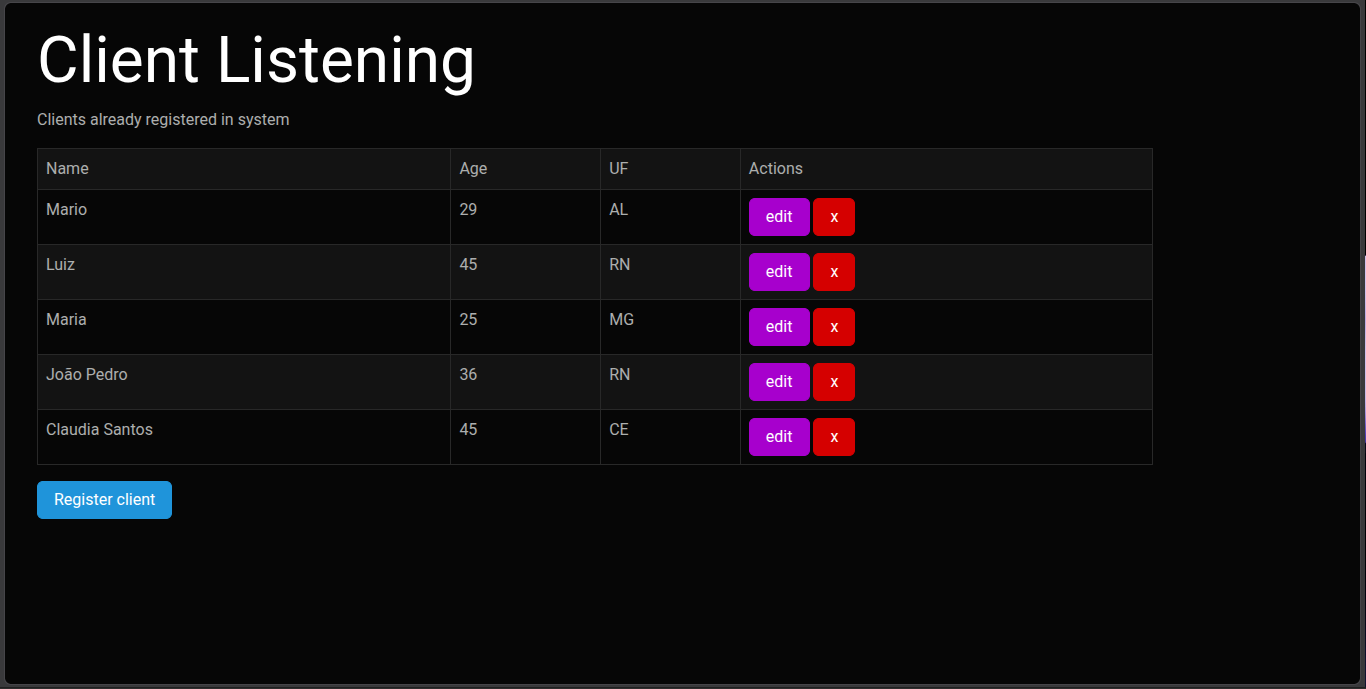
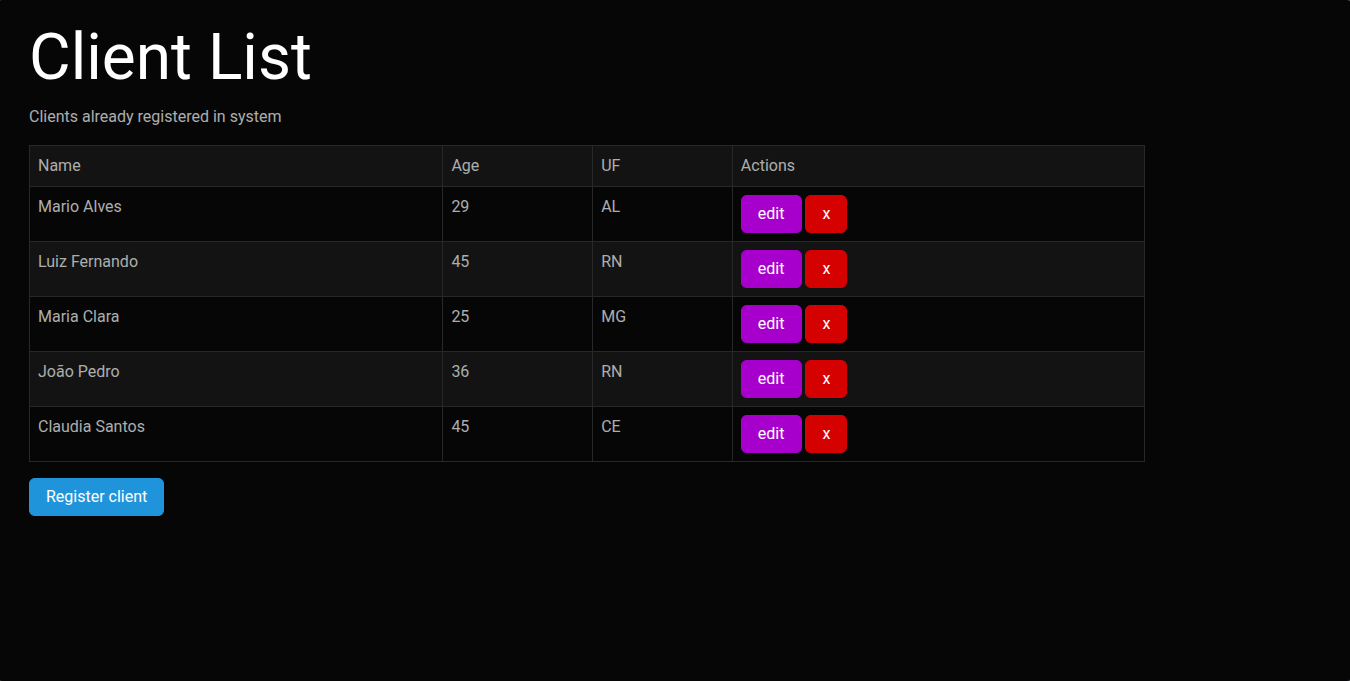
Update README and mobile screenshot

diff --git a/README.md b/README.md
@@ -1,6 +1,6 @@
 <h1>📋 Client Registration</h1>
 
-🔗 **[Ver aplicação ao vivo](https://crud.viniciuspesqueira.dev/)**
+🔗 **[View live application](https://crud.viniciuspesqueira.dev/)**
 
 Client Registration is a web application that allows for the registration and management of clients. You can quickly and easily register your name, state, and age (optional).
 
